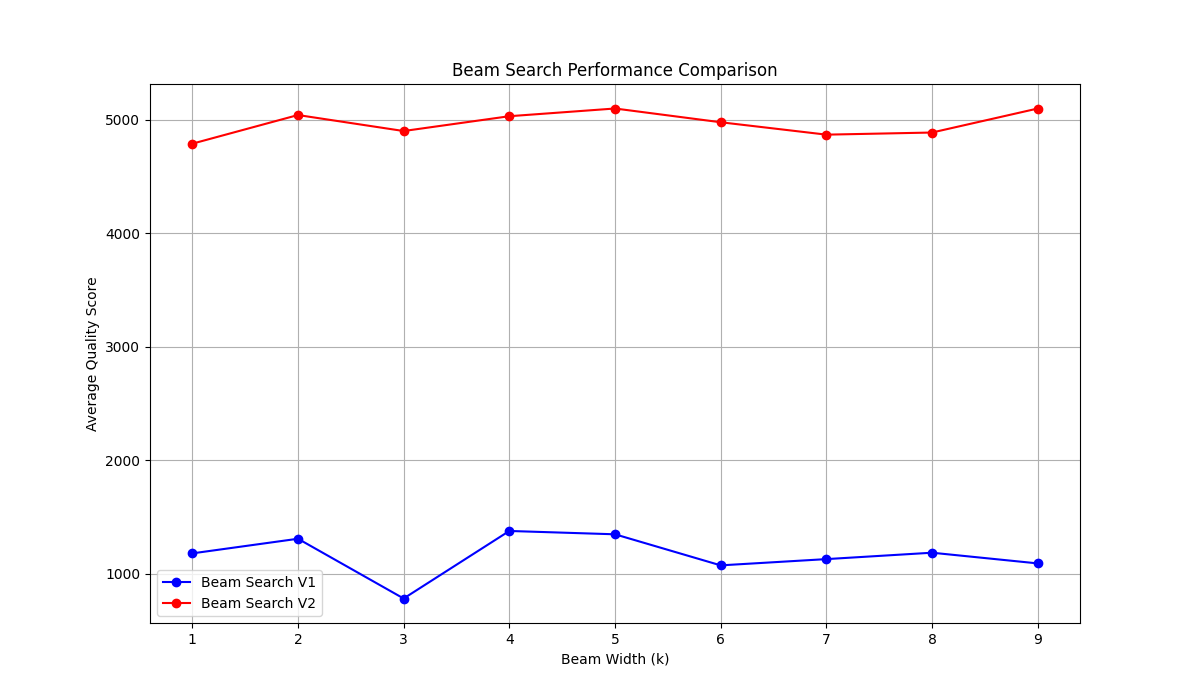
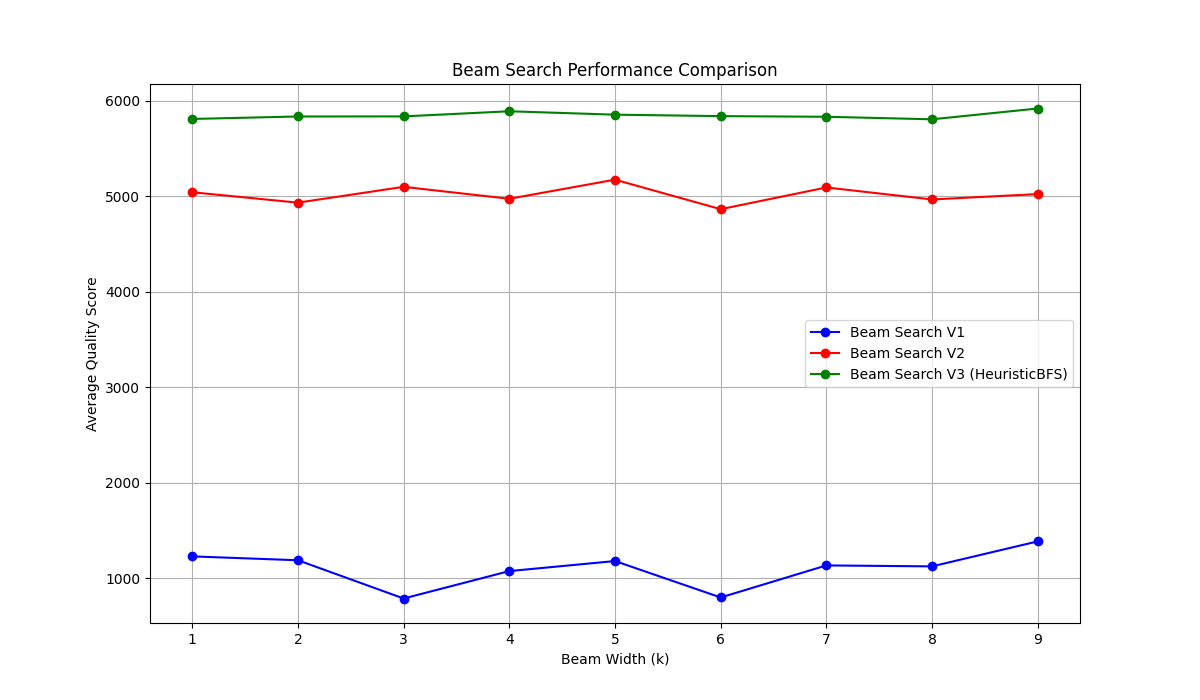
updated beam comparison analysis

diff --git a/code/experiments/beam_comparison.py b/code/experiments/beam_comparison.py
@@ -12,25 +12,20 @@ sys.path.append(parent_dir)
 from classes.rail_network import RailNetwork
 from algorithms.beam_search import BeamSearchAlgorithm
 from algorithms.beam_search_v2 import BeamSearchAlgorithmV2
+from algorithms.beam_search_v3 import HeuristicRandomBFS
 from constants import NATIONAL_CONFIG
 
 def analyze_beam_width(min_width: int = 1, max_width: int = 9, runs_per_width: int = 5) -> List[Tuple[int, float]]:
-    """
-    Analyze beam search V1 performance for different beam widths.
-    """
-    # Initialize network
+    """Analyze beam search V1 performance for different beam widths."""
     network = RailNetwork()
     network.load_stations(NATIONAL_CONFIG['stations_file'])
     network.load_connections(NATIONAL_CONFIG['connections_file'])
     
     results = []
-    
-    # Test each beam width
     for width in range(min_width, max_width + 1):
-        print(f"\nTesting beam width {width}...")
+        print(f"\nTesting V1 beam width {width}...")
         width_scores = []
         
-        # Multiple runs for each width
         for run in range(runs_per_width):
             algorithm = BeamSearchAlgorithm(
                 network,
@@ -38,7 +33,6 @@ def analyze_beam_width(min_width: int = 1, max_width: int = 9, runs_per_width: i
                 time_limit=NATIONAL_CONFIG['time_limit'],
                 max_routes=NATIONAL_CONFIG['max_routes']
             )
-            
             quality, _ = algorithm.find_best_solution()
             width_scores.append(quality)
             print(f"Run {run + 1}: Quality = {quality:.2f}")
@@ -46,26 +40,20 @@ def analyze_beam_width(min_width: int = 1, max_width: int = 9, runs_per_width: i
         avg_quality = sum(width_scores) / len(width_scores)
         results.append((width, avg_quality))
         print(f"Average quality for width {width}: {avg_quality:.2f}")
-        
+    
     return results
 
 def analyze_beam_width_v2(min_width: int = 1, max_width: int = 9, runs_per_width: int = 5) -> List[Tuple[int, float]]:
-    """
-    Analyze beam search V2 performance for different beam widths.
-    """
-    # Initialize network
+    """Analyze beam search V2 performance for different beam widths."""
     network = RailNetwork()
     network.load_stations(NATIONAL_CONFIG['stations_file'])
     network.load_connections(NATIONAL_CONFIG['connections_file'])
     
     results = []
-    
-    # Test each beam width
     for width in range(min_width, max_width + 1):
-        print(f"\nTesting beam width {width}...")
+        print(f"\nTesting V2 beam width {width}...")
         width_scores = []
         
-        # Multiple runs for each width
         for run in range(runs_per_width):
             algorithm = BeamSearchAlgorithmV2(
                 network,
@@ -73,7 +61,6 @@ def analyze_beam_width_v2(min_width: int = 1, max_width: int = 9, runs_per_width
                 time_limit=NATIONAL_CONFIG['time_limit'],
                 max_routes=NATIONAL_CONFIG['max_routes']
             )
-            
             quality, _ = algorithm.find_best_solution()
             width_scores.append(quality)
             print(f"Run {run + 1}: Quality = {quality:.2f}")
@@ -81,60 +68,91 @@ def analyze_beam_width_v2(min_width: int = 1, max_width: int = 9, runs_per_width
         avg_quality = sum(width_scores) / len(width_scores)
         results.append((width, avg_quality))
         print(f"Average quality for width {width}: {avg_quality:.2f}")
+    
+    return results
+
+def analyze_beam_width_v3(min_width: int = 1, max_width: int = 9, runs_per_width: int = 5) -> List[Tuple[int, float]]:
+    """Analyze HeuristicRandomBFS (V3) performance for different widths."""
+    network = RailNetwork()
+    network.load_stations(NATIONAL_CONFIG['stations_file'])
+    network.load_connections(NATIONAL_CONFIG['connections_file'])
+    
+    results = []
+    for width in range(min_width, max_width + 1):
+        print(f"\nTesting V3 beam width {width}...")
+        width_scores = []
         
+        for run in range(runs_per_width):
+            algorithm = HeuristicRandomBFS(
+                network,
+                time_limit=NATIONAL_CONFIG['time_limit'],
+                max_routes=NATIONAL_CONFIG['max_routes']
+            )
+            quality, _ = algorithm.find_best_solution(iterations=100)  # Use iterations for randomization
+            width_scores.append(quality)
+            print(f"Run {run + 1}: Quality = {quality:.2f}")
+        
+        avg_quality = sum(width_scores) / len(width_scores)
+        results.append((width, avg_quality))
+        print(f"Average quality for width {width}: {avg_quality:.2f}")
+    
     return results
 
 def plot_comparison(results1: List[Tuple[int, float]], results2: List[Tuple[int, float]], 
-                   filename: str = 'beam_search_comparison.png'):
-    """Plot and save the comparison results."""
+                   results3: List[Tuple[int, float]], filename: str = 'beam_search_comparison.png'):
+    """Plot and save the comparison results for all three versions."""
     widths1, qualities1 = zip(*results1)
     widths2, qualities2 = zip(*results2)
+    widths3, qualities3 = zip(*results3)
     
     plt.figure(figsize=(12, 7))
     plt.plot(widths1, qualities1, 'bo-', label='Beam Search V1')
     plt.plot(widths2, qualities2, 'ro-', label='Beam Search V2')
+    plt.plot(widths3, qualities3, 'go-', label='Beam Search V3 (HeuristicBFS)')
     plt.xlabel('Beam Width (k)')
     plt.ylabel('Average Quality Score')
     plt.title('Beam Search Performance Comparison')
     plt.legend()
     plt.grid(True)
     
-    # Save in the experiments/results directory
     results_dir = os.path.join(current_dir, 'results')
     os.makedirs(results_dir, exist_ok=True)
     plt.savefig(os.path.join(results_dir, filename))
     plt.close()
 
 def save_comparison_results(results1: List[Tuple[int, float]], results2: List[Tuple[int, float]], 
-                          filename: str = 'beam_search_comparison.csv'):
-    """Save comparison results to CSV file."""
-    # Create results directory if it doesn't exist
+                          results3: List[Tuple[int, float]], filename: str = 'beam_search_comparison.csv'):
+    """Save comparison results to CSV file for all three versions."""
     results_dir = os.path.join(current_dir, 'results')
     os.makedirs(results_dir, exist_ok=True)
     
     filepath = os.path.join(results_dir, filename)
     with open(filepath, 'w', newline='') as f:
         writer = csv.writer(f)
-        writer.writerow(['Beam Width', 'V1 Quality', 'V2 Quality'])
-        for (w1, q1), (w2, q2) in zip(results1, results2):
-            writer.writerow([w1, q1, q2])
+        writer.writerow(['Beam Width', 'V1 Quality', 'V2 Quality', 'V3 Quality'])
+        for (w1, q1), (w2, q2), (w3, q3) in zip(results1, results2, results3):
+            writer.writerow([w1, q1, q2, q3])
 
 if __name__ == "__main__":
-    # Run analysis for both versions
     print("Analyzing Beam Search V1...")
     results_v1 = analyze_beam_width(min_width=1, max_width=9, runs_per_width=5)
     
     print("\nAnalyzing Beam Search V2...")
     results_v2 = analyze_beam_width_v2(min_width=1, max_width=9, runs_per_width=5)
     
-    # Create results directory and save results
-    save_comparison_results(results_v1, results_v2)
-    plot_comparison(results_v1, results_v2)
+    print("\nAnalyzing Beam Search V3 (HeuristicBFS)...")
+    results_v3 = analyze_beam_width_v3(min_width=1, max_width=9, runs_per_width=5)
+    
+    # Save results
+    save_comparison_results(results_v1, results_v2, results_v3)
+    plot_comparison(results_v1, results_v2, results_v3)
     
     # Print best configurations
     best_width_v1, best_quality_v1 = max(results_v1, key=lambda x: x[1])
     best_width_v2, best_quality_v2 = max(results_v2, key=lambda x: x[1])
+    best_width_v3, best_quality_v3 = max(results_v3, key=lambda x: x[1])
     
     print("\nResults Summary:")
     print(f"Beam Search V1 - Best width: {best_width_v1}, Best quality: {best_quality_v1:.2f}")
     print(f"Beam Search V2 - Best width: {best_width_v2}, Best quality: {best_quality_v2:.2f}")
+    print(f"Beam Search V3 - Best width: {best_width_v3}, Best quality: {best_quality_v3:.2f}")

diff --git a/code/main.py b/code/main.py
@@ -17,7 +17,7 @@ from algorithms.beam_search_v2 import BeamSearchAlgorithmV2
 from algorithms.dijkstra_algorithm import DijkstraAlgorithm
 from algorithms.greedy import GreedyAlgorithm
 from algorithms.hill_climber import HillClimber
-from algorithms.bfs_heuristics_random import HeuristicRandomBFS
+from algorithms.beam_search_v3 import HeuristicRandomBFS
 from constants import HOLLAND_CONFIG, NATIONAL_CONFIG
 
 def run_algorithm(algorithm_class, network: RailNetwork, config: dict, iterations: int = None) -> None:
@@ -67,7 +67,7 @@ def run_visualization(self):
 def main():
     parser = argparse.ArgumentParser(description='Run rail network optimization algorithms')
     parser.add_argument('--algorithm', type=str, 
-                      choices=['random', 'bfs', 'bfs_v2', 'bfs_v3', 'beam', 'beam_v2', 'dijkstra', 'greedy', 'hill', 'all'], 
+                      choices=['random', 'bfs', 'bfs_v2', 'beam', 'beam_v2', 'beam_v3', 'dijkstra', 'greedy', 'hill', 'all'], 
                       default='all', help='Algorithm to run (default: all)')
     parser.add_argument('--iterations', type=int, default=1000,
                       help='Number of iterations for random algorithm (default: 1000)')
@@ -90,9 +90,9 @@ def main():
             'random': RandomAlgorithm,
             'bfs': SimplifiedBFSAlgorithm,
             'bfs_v2': SimplifiedBFSAlgorithmV2,
-            'bfs_v3': HeuristicRandomBFS,
             'beam': BeamSearchAlgorithm,
             'beam_v2': BeamSearchAlgorithmV2,
+            'beam_v3': HeuristicRandomBFS,
             'dijkstra': DijkstraAlgorithm,
             'greedy': GreedyAlgorithm,
             'hill': HillClimber

diff --git a/code/algorithms/beam_search_v3.py b/code/algorithms/beam_search_v3.py
@@ -6,7 +6,7 @@ from classes.route import Route
 from classes.heuristics import RouteHeuristics
 
 class HeuristicRandomBFS:
-    def __init__(self, rail_network: RailNetwork, time_limit: int = 120, max_routes: int = 7):
+    def __init__(self, rail_network: RailNetwork, time_limit: int = 120, max_routes: int = 6):
         """
         Initialize HeuristicRandomBFS.
         
